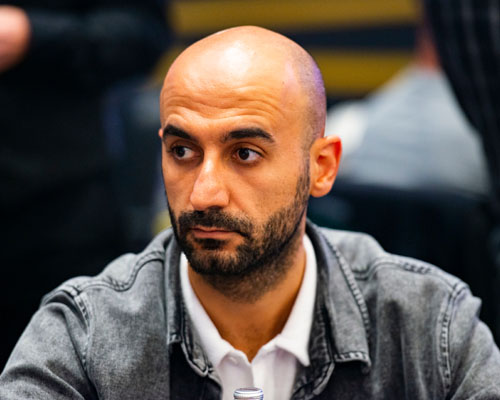
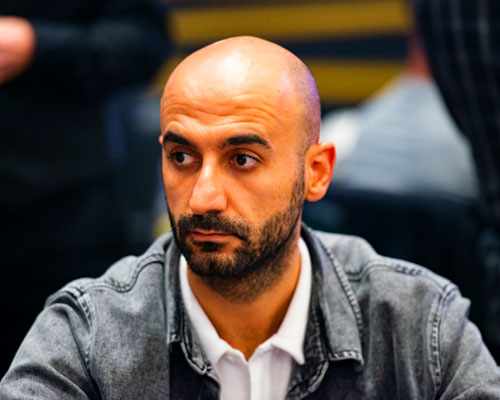
3 playrs

diff --git a/src/containers/SaasAppDark/Testimonials/index.js b/src/containers/SaasAppDark/Testimonials/index.js
@@ -80,6 +80,7 @@ import image44 from "common/assets/image/player44.jpg";
 import image45 from "common/assets/image/player45.jpg";
 import image46 from "common/assets/image/player46.jpg";
 
+import image47 from "common/assets/image/player47.jpg";
 import image48 from "common/assets/image/player48.jpg";
 
 import image49 from "common/assets/image/player49.jpg";
@@ -118,6 +119,7 @@ import image074 from "common/assets/image/player074.jpg";
 import image73 from "common/assets/image/player73.jpg";
 import image74 from "common/assets/image/player74.jpg";
 
+import image75 from "common/assets/image/player75.jpg";
 import image76 from "common/assets/image/player76.jpg";
 
 import image77 from "common/assets/image/player77.jpg";
@@ -1091,7 +1093,7 @@ const Testimonials = () => {
                 <div className="main_card__image">
                   <NextImage
                     className="cyprus-img"
-                    src={imageDef}
+                    src={image47}
                     alt="Sam Miller"
                   />
                 </div>
@@ -1585,7 +1587,7 @@ const Testimonials = () => {
                 <div className="main_card__image">
                   <NextImage
                     className="cyprus-img"
-                    src={imageDef}
+                    src={image75}
                     alt="Elias Talvitie "
                   />
                 </div>
